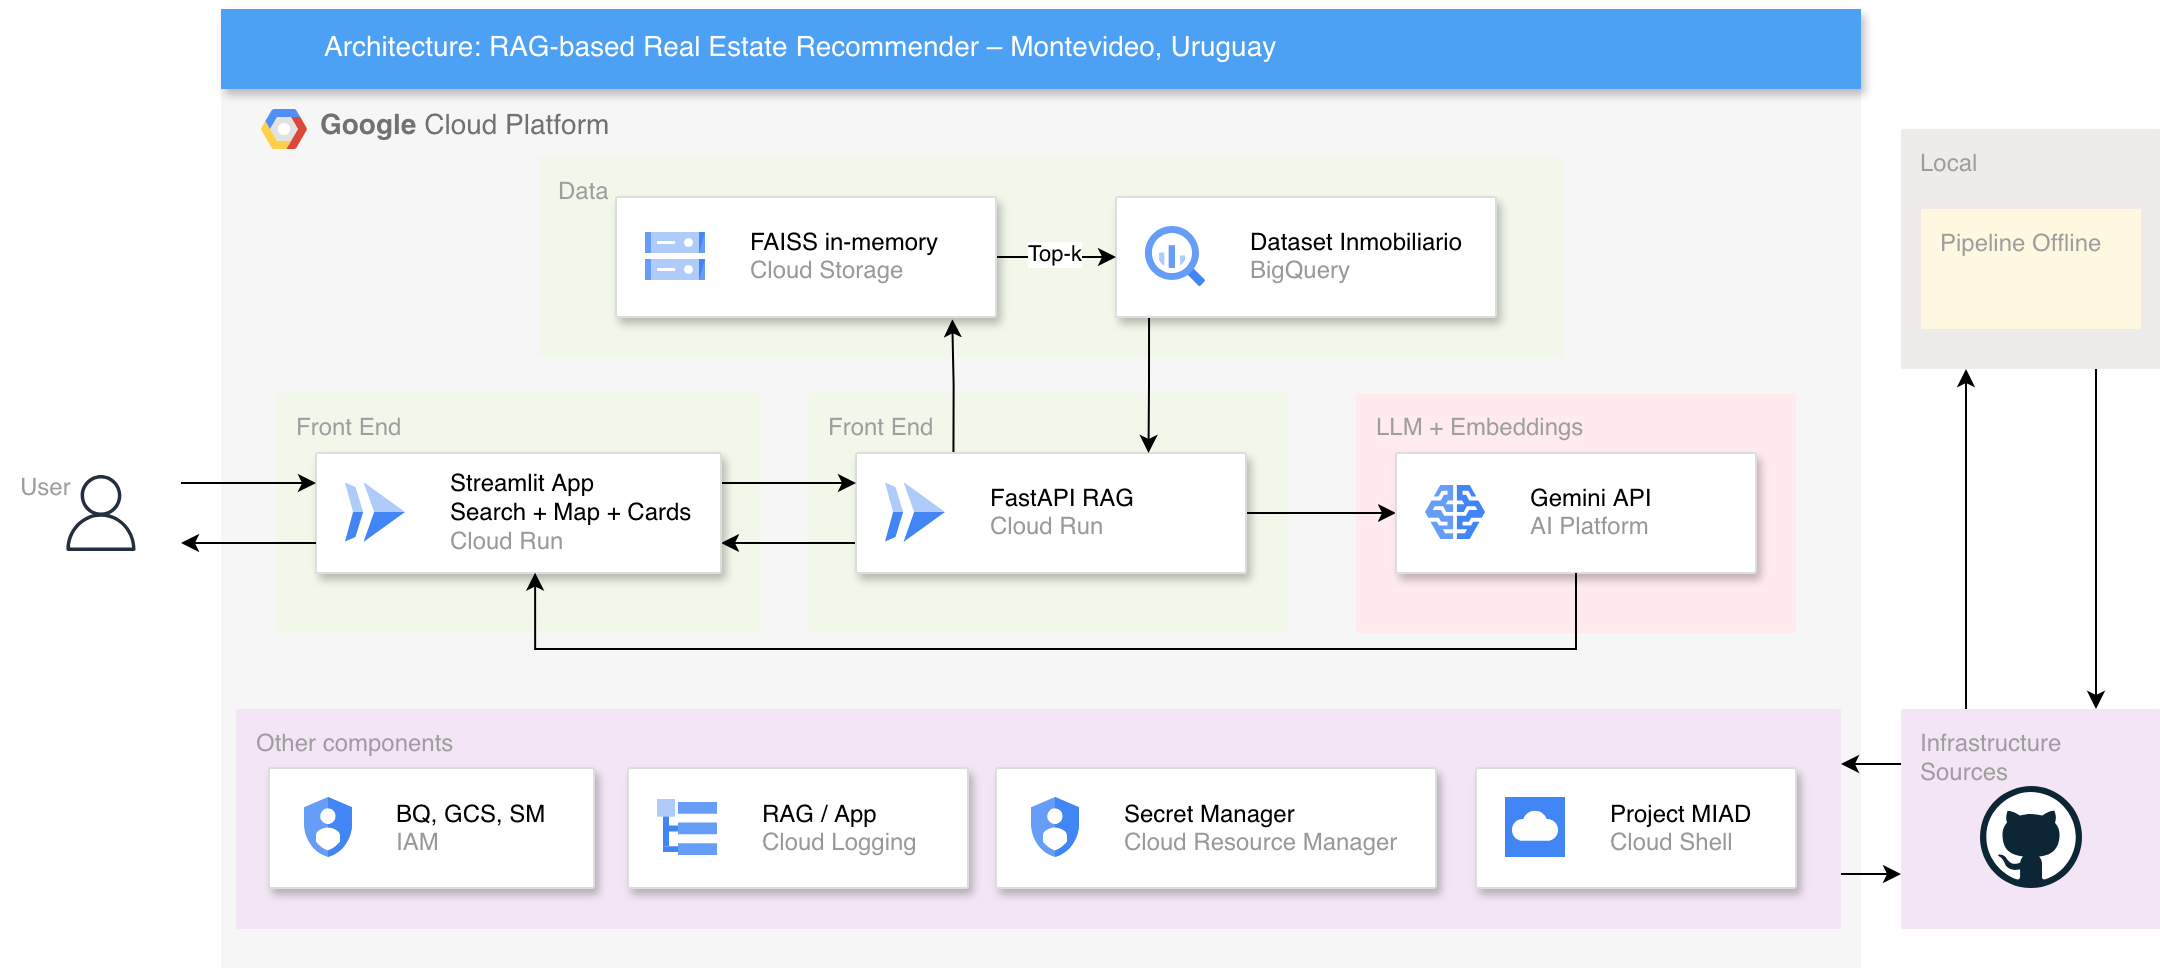
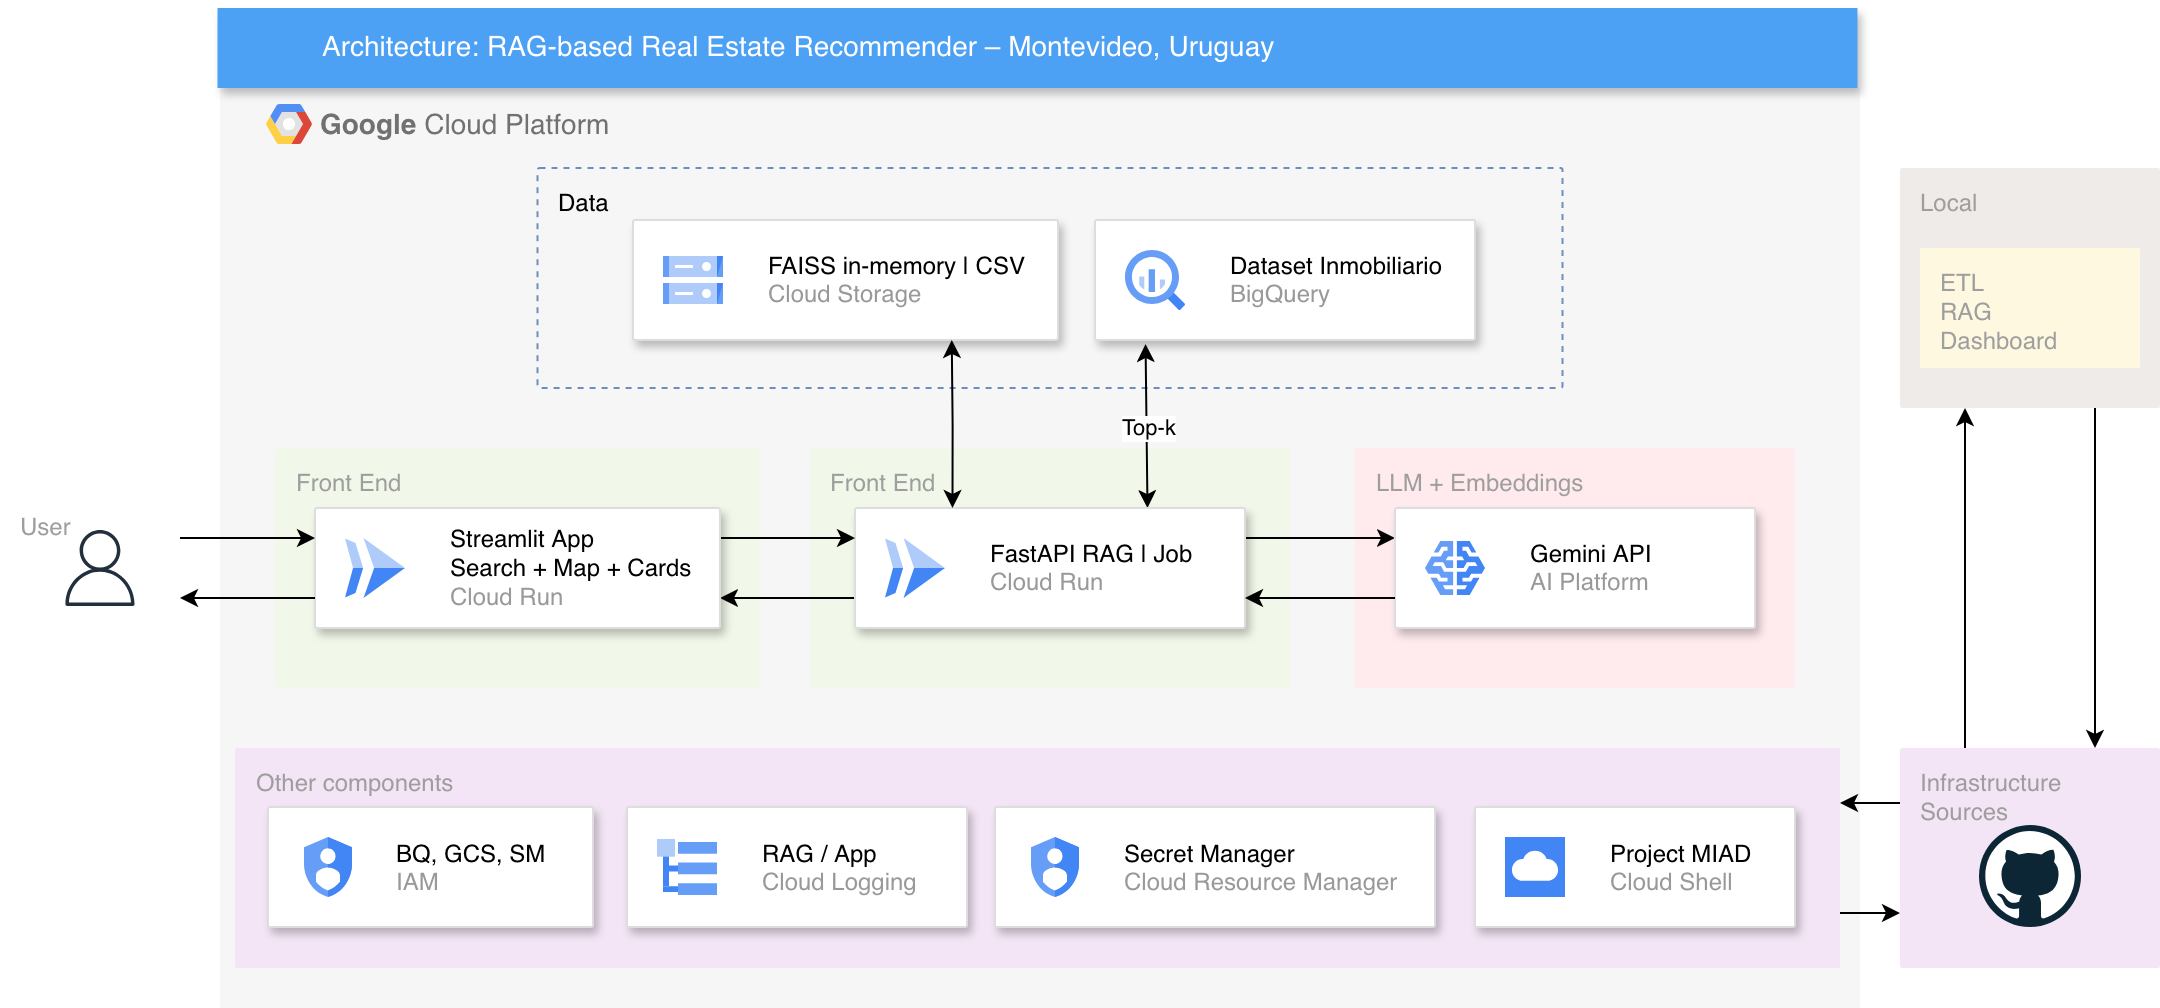
README updated

diff --git a/README.md b/README.md
@@ -108,7 +108,7 @@ Sistema de recomendación inmobiliaria basado en **Retrieval-Augmented Generatio
 
 **Stack principal:**
 
-- Cloud Run (Frontend + Backend)
+- Cloud Run (Frontend + Backend + Job:FAISS)
 - BigQuery (datos estructurados)
 - Cloud Storage (FAISS backup)
 - Secret Manager (seguridad)
@@ -121,94 +121,116 @@ Este diagrama resume el flujo de solución del sistema RAG para recomendación i
 
 ```mermaid
 ---
-title: RAG Pipeline
+title: RAG Pipeline - Arquitectura Final (GCP, separación ETL vs RAG)
 ---
 %%{init: {
   "theme": "base",
-  "flowchart": { "curve": "basis", "nodeSpacing": 50, "rankSpacing": 70 }
+  "flowchart": { "curve": "basis", "nodeSpacing": 60, "rankSpacing": 80 }
 }}%%
-flowchart TD
+flowchart LR
 
 %% ======================
-%% FUERA DE GCP
+%% USUARIO
 %% ======================
 subgraph EXT["Usuario"]
     U[Usuario]
-    BROWSER[Navegador]
+    BROWSER[Navegador Web]
 end
 
 %% ======================
 %% FRONTEND
 %% ======================
-subgraph FE["Experiencia de Usuario"]
-    UI[Cloud Run<br/>Streamlit App<br/>Busqueda + Mapa + Cards]
+subgraph FE["Capa de Experiencia - Frontend"]
+    UI[Cloud Run<br/>Streamlit App<br/>Búsqueda + Mapa + Cards]
 end
 
 %% ======================
-%% BACKEND
+%% BACKEND (RAG)
 %% ======================
-subgraph BE["Motor RAG (Orquestación)"]
-    API[Cloud Run<br/>FastAPI]
+subgraph BE["Capa de Orquestación RAG"]
+
+    API[Cloud Run<br/>FastAPI<br/>RAG Orchestrator]
+
+    JOB[Cloud Run Job<br/>Construcción índice FAISS<br/>Pipeline RAG Offline]
+
 end
 
 %% ======================
-%% DATA LAYER
+%% DATA
 %% ======================
-subgraph DATA["Datos"]
-    FAISS[FAISS Index<br/>in-memory]
-    GCS[Cloud Storage<br/>Backup indice]
-    BQ[BigQuery<br/>Datos inmobiliarios]
+subgraph DATA["Capa de Datos"]
+    FAISS[Índice Vectorial FAISS<br/>Embeddings + property_id]
+    GCS[Cloud Storage<br/>Persistencia índice]
+    BQ[BigQuery<br/>Fuente de verdad<br/>Datos estructurados]
 end
 
 %% ======================
-%% AI SERVICES
+%% AI
 %% ======================
-subgraph AI["Inteligencia Artificial"]
-    GEM[Gemini API<br/>Generación + Embeddings]
+subgraph AI["Servicios de Inteligencia Artificial"]
+    GEM[Gemini API<br/>Embeddings + Generación]
 end
 
 %% ======================
 %% SEGURIDAD
 %% ======================
-subgraph SEC["Seguridad"]
-    SM[Secret Manager<br/>Credenciales seguras]
+subgraph SEC["Capa de Seguridad"]
+    SM[Secret Manager]
 end
 
 %% ======================
 %% OBSERVABILIDAD
 %% ======================
-subgraph OBS["Monitoreo y Evaluación"]
+subgraph OBS["Observabilidad y Evaluación"]
     LOGS[Cloud Logging]
     TRACE[LangSmith / RAGAS]
 end
 
 %% ======================
-%% OFFLINE
+%% PIPELINE ETL (DATOS)
 %% ======================
-subgraph OFF["Pipeline Offline"]
-    SCRAPER[ExploracionDatos.py]
-    FEAT[Feature Engineering]
-    EMB[Embeddings]
-    BUILD[Construcción FAISS]
+subgraph ING["Pipeline de Datos (ETL)"]
+
+    SCRAPER[ExploracionDatos.py<br/>Extracción]
+    
+    FEAT[Feature Engineering<br/>Transformación]
+    
+    LOAD[Carga a BigQuery]
+
 end
 
+SCRAPER --> FEAT --> LOAD --> BQ
+
 %% ======================
-%% FLUJO PRINCIPAL
+%% PIPELINE RAG (MODELADO)
+%% ======================
+BQ -->|Datos para embeddings| JOB --> GCS
+
+%% ======================
+%% FLUJO ONLINE
 %% ======================
 U --> BROWSER --> UI --> API
 
-API --> FAISS
+API -->|Embedding de consulta| GEM
+API -->|Búsqueda semántica| FAISS
+
 GCS --> FAISS
 
-FAISS --> IDS[Top-K propiedades similares]
-IDS --> BQ
-BQ --> DATA2[Datos enriquecidos<br/>precio, ubicación, atributos]
+FAISS --> IDS[Top-K property_id]
+
+IDS -->|Lookup| BQ
+BQ --> DATA2[Datos enriquecidos<br/>lat/lon + atributos]
 
 DATA2 --> API
-API --> GEM
-GEM --> RESP[Explicación + recomendación]
+API -->|Generación| GEM
+GEM --> RESP[Respuesta explicada]
 
 RESP --> UI --> BROWSER
+
+%% ======================
+%% VISUALIZACIÓN
+%% ======================
+BQ --> UI
 
 %% ======================
 %% SEGURIDAD
@@ -221,12 +243,7 @@ GEM --> SM
 %% ======================
 API -.-> LOGS
 API -.-> TRACE
-
-%% ======================
-%% OFFLINE FLOW
-%% ======================
-SCRAPER --> FEAT --> EMB --> BUILD --> GCS
-FEAT --> BQ
+JOB -.-> LOGS
 
 %% ======================
 %% ESTILOS
@@ -237,15 +254,15 @@ classDef data fill:#81C995,color:#fff,stroke:#4CAF50,stroke-width:2px
 classDef ai fill:#34A853,color:#fff,stroke:#0F9D58,stroke-width:2px
 classDef sec fill:#FDD663,color:#000,stroke:#F9AB00,stroke-width:2px
 classDef obs fill:#F28B82,color:#fff,stroke:#D93025,stroke-width:2px
-classDef off fill:#C58AF9,color:#fff,stroke:#9334E6,stroke-width:2px
+classDef ingest fill:#C58AF9,color:#fff,stroke:#9334E6,stroke-width:2px
 
 class UI fe
-class API be
+class API,JOB be
 class FAISS,GCS,BQ data
 class GEM ai
 class SM sec
 class LOGS,TRACE obs
-class SCRAPER,FEAT,EMB,BUILD off
+class SCRAPER,FEAT,LOAD ingest
 
 style EXT fill:#F1F3F4,stroke:#9AA0A6
 style FE fill:#F1F3F4,stroke:#9AA0A6
@@ -254,8 +271,11 @@ style DATA fill:#F1F3F4,stroke:#9AA0A6
 style AI fill:#F1F3F4,stroke:#9AA0A6
 style SEC fill:#F1F3F4,stroke:#9AA0A6
 style OBS fill:#F1F3F4,stroke:#9AA0A6
-style OFF fill:#F1F3F4,stroke:#9AA0A6
+style ING fill:#F1F3F4,stroke:#9AA0A6
 ```
+
+
+> **Nota:** En este proyecto, la capa de análisis no se basa en modelos tradicionales supervisados, sino en un enfoque de recuperación aumentada (RAG), donde el "modelo" está representado por un índice vectorial (FAISS) construido a partir de embeddings generados con Gemini. Este índice permite realizar búsquedas semánticas eficientes sobre las propiedades inmobiliarias, las cuales son posteriormente enriquecidas con datos estructurados desde BigQuery y utilizadas para generar respuestas explicativas mediante un modelo de lenguaje.
 
 ## Flujo de Ejecución del Sistema (RAG Pipeline en Tiempo Real)
 
@@ -263,11 +283,11 @@ Este diagrama de secuencia describe el flujo de ejecución del sistema de recome
 
 ```mermaid
 ---
-title: RAG Pipeline en Tiempo Real
+title: Flujo en Tiempo Real - RAG Orchestrator
 ---
 %%{init: {
   "theme": "base",
-  'look':'handDrawn',
+  "look":"handDrawn",
   "themeVariables": {
     "primaryColor": "#4285F4",
     "secondaryColor": "#34A853",
@@ -284,64 +304,58 @@ autonumber
 actor User
 
 participant UI as Cloud Run <br> Streamlit
-participant ORQ as Cloud Run <br> FastAPI
-participant PRS as Query Parser
-participant RAG as RAG <br> Engine
-participant VDB as FAISS <br> in-memory
-participant BQ as BigQuery
-participant RES as Result Store <br> (Memory)
-participant EXP as Explanation <br> Engine
-participant LLM as Gemini <br> API
+participant API as Cloud Run <br> FastAPI<br/>RAG Orchestrator
+participant FAISS as FAISS Index <br> in-memory
+participant BQ as BigQuery <br> (Fuente de verdad)
+participant LLM as Gemini API
 
 %% ======================
-%% COLORES POR CAPA
+%% FRONTEND
 %% ======================
-%% Frontend
 rect rgba(138,180,248,0.15)
-User->>UI: texto usuario
-UI->>ORQ: request buscar
+User->>UI: texto libre (búsqueda)
+UI->>API: request buscar
 end
 
-%% Backend
-rect rgba(66,133,244,0.15)
-ORQ->>PRS: parsear query
-PRS-->>ORQ: filtros + embedding
-end
-
-%% RAG + Data
-rect rgba(129,201,149,0.15)
-ORQ->>RAG: recuperar candidatos
-RAG->>VDB: búsqueda vectorial
-VDB-->>RAG: ids similares
-
-RAG->>BQ: metadatos propiedades
-BQ-->>RAG: propiedades enriquecidas
-RAG-->>ORQ: candidatos
-end
-
-%% Persistencia ligera
-rect rgba(197,138,249,0.15)
-ORQ->>RES: guardar resultados
-RES-->>ORQ: ok
-end
-
-%% AI
+%% ======================
+%% EMBEDDING QUERY
+%% ======================
 rect rgba(52,168,83,0.15)
-ORQ->>EXP: generar explicación
-EXP->>RES: contexto
-RES-->>EXP: datos
-
-EXP->>LLM: prompt
-LLM-->>EXP: texto
-EXP-->>ORQ: explicación
+API->>LLM: generar embedding(query)
+LLM-->>API: vector embedding
 end
 
-%% Respuesta UX
-rect rgba(138,180,248,0.15)
-ORQ-->>UI: resultados
+%% ======================
+%% RETRIEVAL (FAISS)
+%% ======================
+rect rgba(129,201,149,0.15)
+API->>FAISS: búsqueda semántica
+FAISS-->>API: Top-K property_id
+end
 
-UI->>BQ: lat-lon propiedades
-BQ-->>UI: coordenadas
+%% ======================
+%% ENRIQUECIMIENTO (BQ)
+%% ======================
+rect rgba(129,201,149,0.15)
+API->>BQ: lookup metadata (IDs)
+BQ-->>API: datos enriquecidos<br/>atributos + lat/lon
+end
+
+%% ======================
+%% GENERACIÓN (LLM)
+%% ======================
+rect rgba(52,168,83,0.15)
+API->>LLM: generar explicación<br/>contexto enriquecido
+LLM-->>API: respuesta natural
+end
+
+%% ======================
+%% RESPUESTA UX
+%% ======================
+rect rgba(138,180,248,0.15)
+API-->>UI: resultados + explicación + lat/lon
+
+
 
 UI-->>User: mapa + cards + explicación
 end
